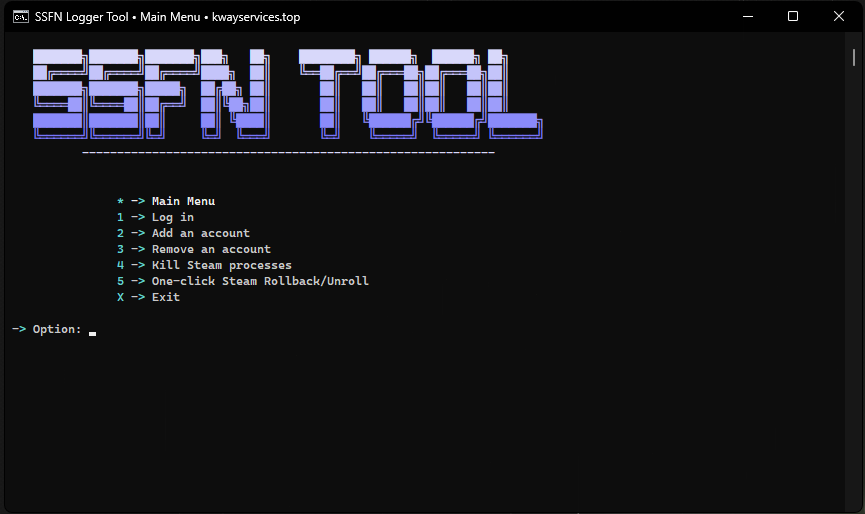
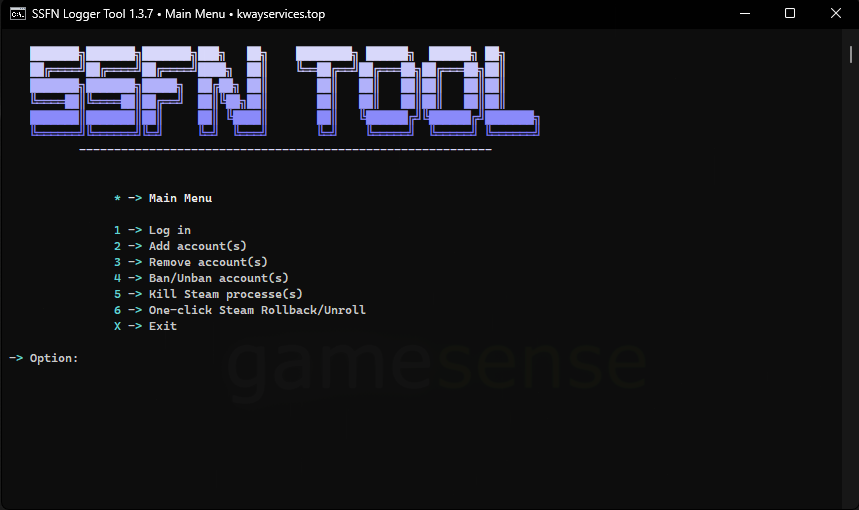
🥶Added view version to titles and changed preview

diff --git a/src/handler/menu_manager.py b/src/handler/menu_manager.py
@@ -1,6 +1,7 @@
 import os
 from pystyle import Center
 from colorama import Fore, Style
+from src.helper.config import Config
 from src.handler.log_menu import LogMenuHandler
 from src.handler.add_menu import AddMenuHandler
 from src.handler.main_menu import MainMenuHandler
@@ -15,29 +16,28 @@ class MenuManager:
         self.remove_menu_handler = RemoveMenuHandler(self)
         self.ban_menu_handler = BanMenuHandler(self)
         # Set title
-        if os.name == 'nt':
-            os.system("title SSFN Logger Tool • Main Menu • kwayservices.top")
+        os.system(f"title SSFN Logger Tool {Config().build_version} • Main Menu • kwayservices.top")
 
     def display_main_menu(self):
-        os.system("title SSFN Logger Tool • Main Menu • kwayservices.top")
+        os.system(f"title SSFN Logger Tool {Config().build_version} • Main Menu • kwayservices.top")
         self.main_menu_handler.display_main_menu()
 
     def display_add_menu(self):
-        os.system("title SSFN Logger Tool • Add Account Menu • kwayservices.top")
+        os.system(f"title SSFN Logger Tool {Config().build_version} • Add Account Menu • kwayservices.top")
         self.add_menu_handler.display_add_menu()
 
     def display_remove_menu(self):
-        os.system("title SSFN Logger Tool • Remove Account Menu • kwayservices.top")
+        os.system(f"title SSFN Logger Tool {Config().build_version} • Remove Account Menu • kwayservices.top")
         self.remove_menu_handler.display_remove_menu()
 
     def display_log_menu(self):
-        os.system("title SSFN Logger Tool • Log in Menu • kwayservices.top")
+        os.system(f"title SSFN Logger Tool {Config().build_version} • Log in Menu • kwayservices.top")
         self.log_menu_handler.display_log_menu()
 
     def display_ban_menu(self):
-        os.system("title SSFN Logger Tool • Ban Account Menu • kwayservices.top")
+        os.system(f"title SSFN Logger Tool {Config().build_version} • Ban Account Menu • kwayservices.top")
         self.ban_menu_handler.display_ban_menu()
 
     def print_logs_box(self):
-        os.system("title SSFN Logger Tool • Showing logs • kwayservices.top")
+        os.system(f"title SSFN Logger Tool {Config().build_version} • Showing logs • kwayservices.top")
         print(Center.XCenter(f"\n\n{Fore.LIGHTCYAN_EX}[{Fore.WHITE}LOGS{Fore.LIGHTCYAN_EX}]{Style.RESET_ALL}\n\n"))

diff --git a/src/handler/main_menu.py b/src/handler/main_menu.py
@@ -21,7 +21,7 @@ class MainMenuHandler:
 
     def exit_program(self):
         self.manager.print_logs_box()
-        self.logger.log("INFO", "Exiting...")
+        self.logger.log("INFO", "Bye!")
         exit()
 
     def open_website(self):
@@ -34,10 +34,10 @@ class MainMenuHandler:
                 {Fore.LIGHTCYAN_EX}*{Fore.WHITE} -{Fore.LIGHTCYAN_EX}>{Fore.WHITE} Main Menu{Style.RESET_ALL}
                 
                 {Fore.LIGHTCYAN_EX}1{Fore.WHITE} -{Fore.LIGHTCYAN_EX}>{Fore.WHITE} Log in{Style.RESET_ALL}
-                {Fore.LIGHTCYAN_EX}2{Fore.WHITE} -{Fore.LIGHTCYAN_EX}>{Fore.WHITE} Add an account{Style.RESET_ALL}
-                {Fore.LIGHTCYAN_EX}3{Fore.WHITE} -{Fore.LIGHTCYAN_EX}>{Fore.WHITE} Remove an account{Style.RESET_ALL}
-                {Fore.LIGHTCYAN_EX}4{Fore.WHITE} -{Fore.LIGHTCYAN_EX}>{Fore.WHITE} Ban/Unban accounts{Style.RESET_ALL}
-                {Fore.LIGHTCYAN_EX}5{Fore.WHITE} -{Fore.LIGHTCYAN_EX}>{Fore.WHITE} Kill Steam processes{Style.RESET_ALL}
+                {Fore.LIGHTCYAN_EX}2{Fore.WHITE} -{Fore.LIGHTCYAN_EX}>{Fore.WHITE} Add account(s){Style.RESET_ALL}
+                {Fore.LIGHTCYAN_EX}3{Fore.WHITE} -{Fore.LIGHTCYAN_EX}>{Fore.WHITE} Remove account(s){Style.RESET_ALL}
+                {Fore.LIGHTCYAN_EX}4{Fore.WHITE} -{Fore.LIGHTCYAN_EX}>{Fore.WHITE} Ban/Unban account(s){Style.RESET_ALL}
+                {Fore.LIGHTCYAN_EX}5{Fore.WHITE} -{Fore.LIGHTCYAN_EX}>{Fore.WHITE} Kill Steam processe(s){Style.RESET_ALL}
                 {Fore.LIGHTCYAN_EX}6{Fore.WHITE} -{Fore.LIGHTCYAN_EX}>{Fore.WHITE} One-click Steam Rollback/Unroll{Style.RESET_ALL}
                 {Fore.LIGHTCYAN_EX}X{Fore.WHITE} -{Fore.LIGHTCYAN_EX}>{Fore.WHITE} Exit{Style.RESET_ALL}
             """

diff --git a/main.py b/main.py
@@ -5,8 +5,7 @@ from src.handler.menu_manager import MenuManager
 from src.helper.file_manager import FileManager
 
 # Set title
-if os.name == 'nt':
-    os.system("title SSFN Logger Tool • Ready! • discord.gg/kws")
+os.system(f"title SSFN Logger Tool {Config().build_version} • Ready! • discord.gg/kws")
 
 # Set logging system
 logging.basicConfig(handlers=[logging.FileHandler('ssfntool.log', 'w+', 'utf-8')], level=logging.ERROR, format='%(asctime)s: %(message)s')
